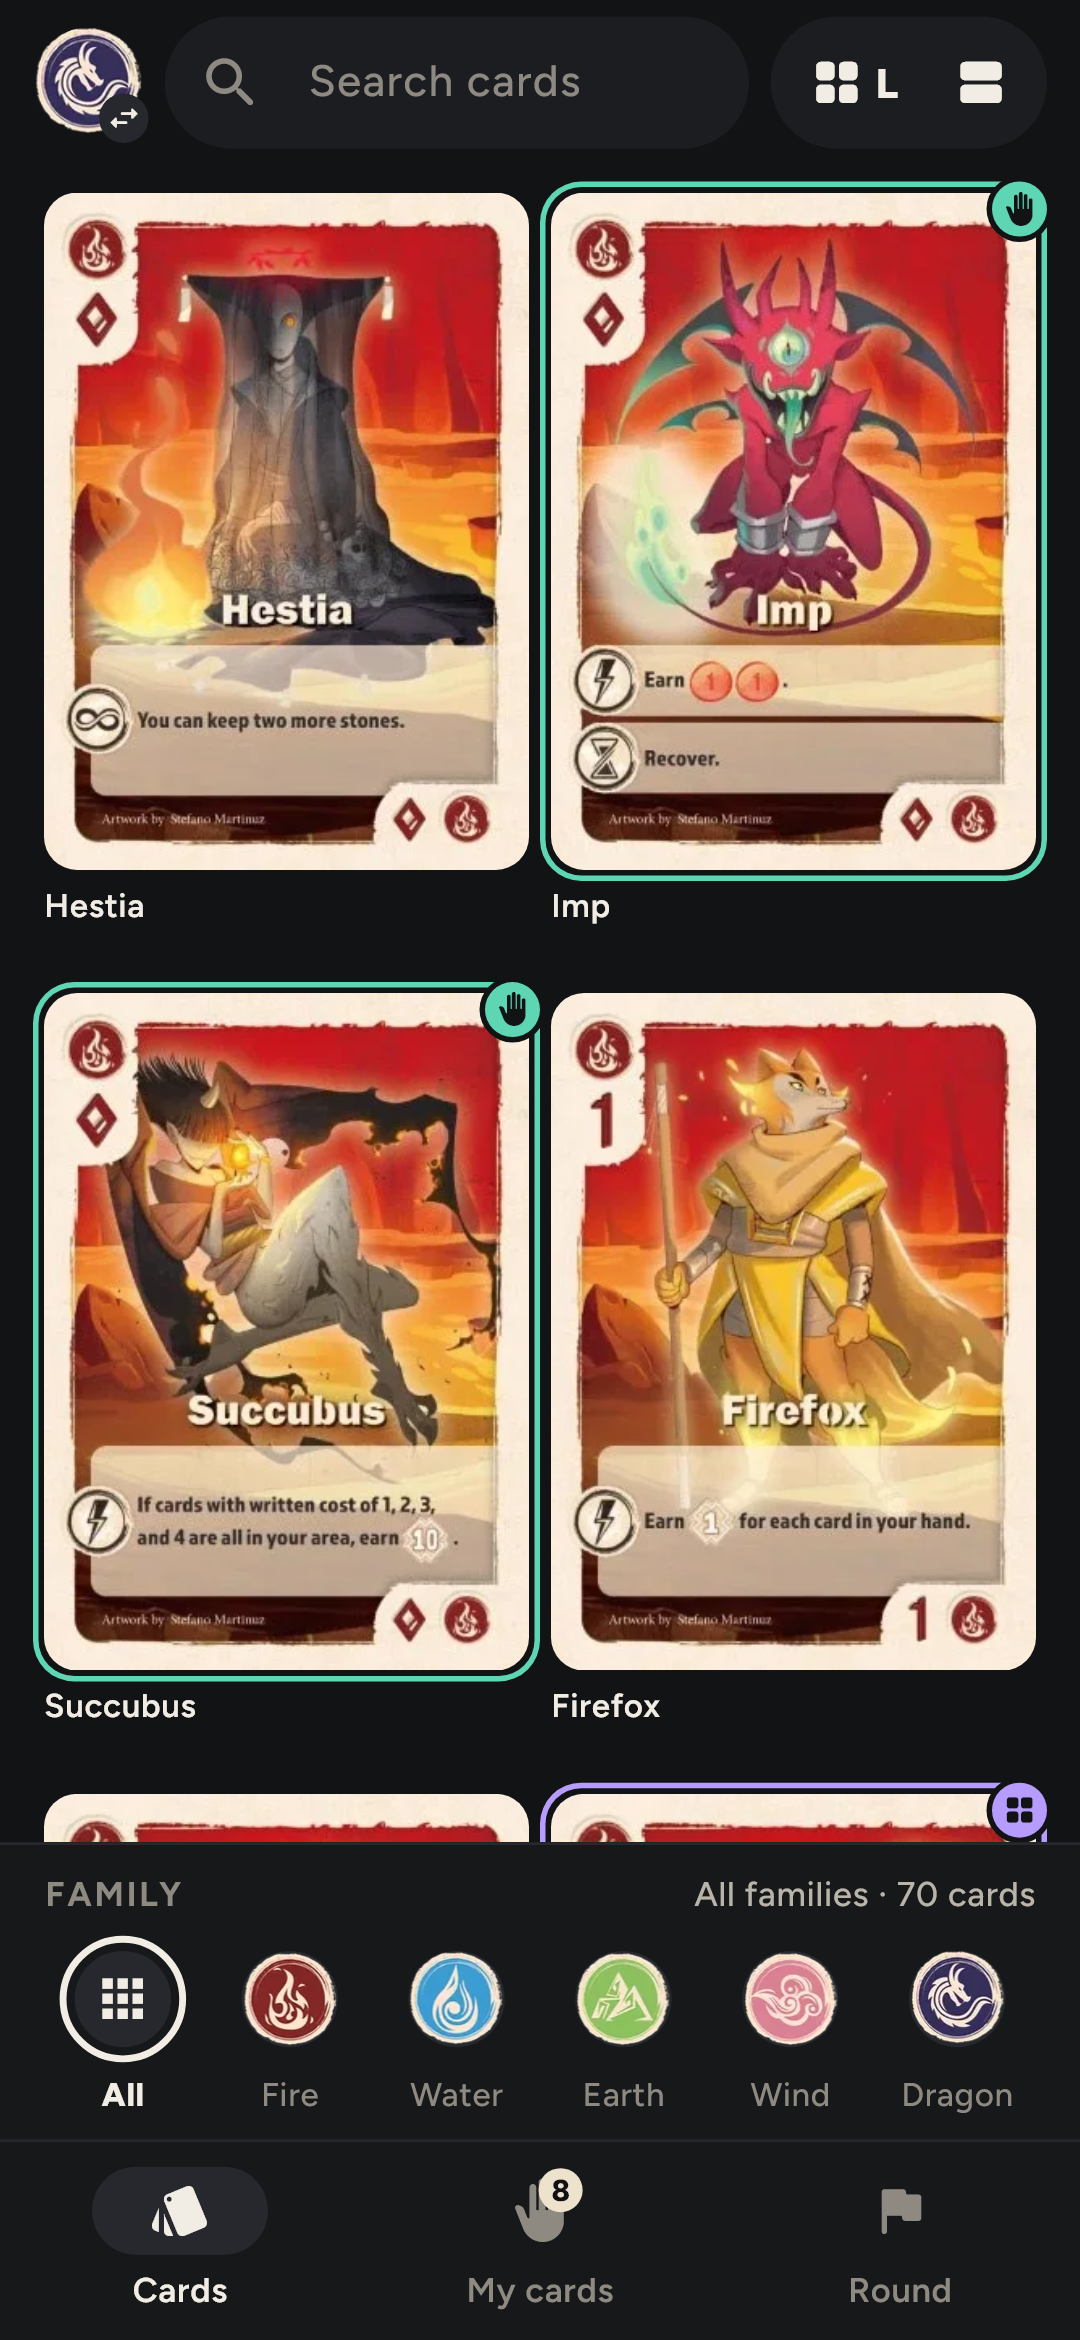
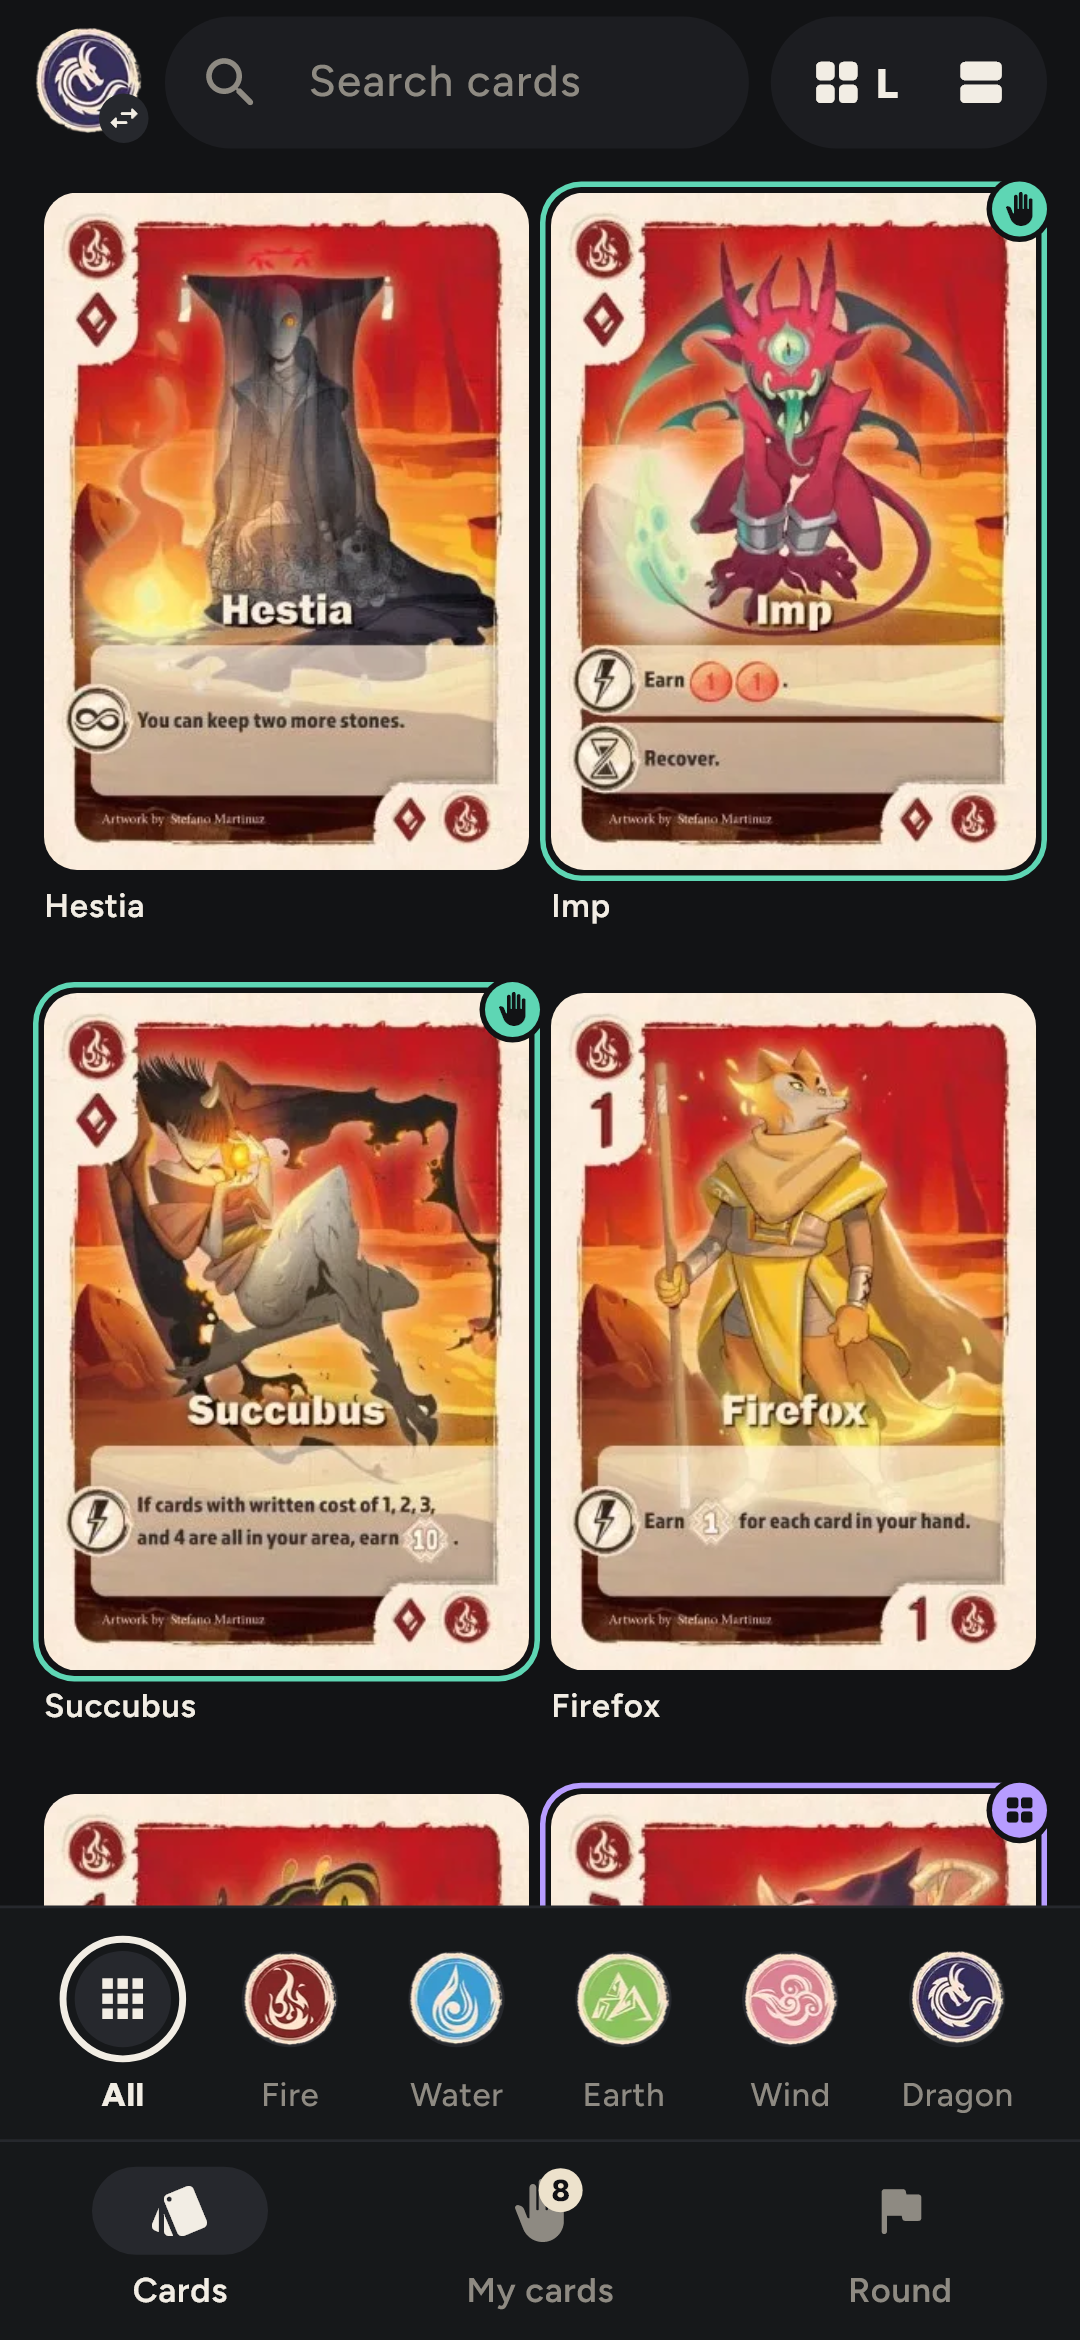
feat: dock is only the family row; group header joins the highlight; "1 card"; no scrollbar
The family dock drops its "FAMILY · Fire · 15 cards" line: just the option buttons with
10 / 8 dp padding, as in the mock. Grouped layout: the sticky header is the top of the
group container (6 dp inset, top-rounded, bordered on three sides) and the cards panel
the bottom, so the label shares the first card's left edge and the picked highlight wraps
both; the border is counted in the inner width. Counts read "1 card" / "3 cards". The
platform scrollbar is hidden in the gallery: the rail is the scrollbar there.

Changed region(s): [[0.0306, 0.7799, 0.9778, 0.8423]]

diff --git a/lib/blocks/gallery/filter_dock.dart b/lib/blocks/gallery/filter_dock.dart
@@ -4,18 +4,17 @@ import '../../core/theme.dart';
 import '../../module_format/block_specs.dart';
 import '../item_picture.dart';
 
-/// Single-select option dock at the bottom, in thumb reach.
+/// Single-select option dock at the bottom, in thumb reach: just the option buttons with
+/// their labels (the picked one is ringed), nothing else.
 class FilterDock extends StatelessWidget {
   const FilterDock({
     super.key,
     required this.filter,
     required this.selected,
-    required this.summary,
     required this.onPick,
   });
   final FilterSpec filter;
   final Object? selected;
-  final String summary;
   final void Function(Object?) onPick;
 
   @override
@@ -27,53 +26,28 @@ class FilterDock extends StatelessWidget {
         border: Border(top: BorderSide(color: p.surface2)),
       ),
       padding: const EdgeInsets.fromLTRB(12, 10, 12, 8),
-      child: Column(
+      child: _OptionRow(
         children: [
-          Padding(
-            padding: const EdgeInsets.symmetric(horizontal: 4),
-            child: Row(
-              children: [
-                Text(
-                  filter.label.toUpperCase(),
-                  style: T.caption.copyWith(letterSpacing: 1, fontWeight: FontWeight.w700, color: p.muted),
-                ),
-                const SizedBox(width: 8),
-                Expanded(
-                  child: Text(
-                    summary,
-                    textAlign: TextAlign.right,
-                    overflow: TextOverflow.ellipsis,
-                    style: T.caption.copyWith(color: p.text2, fontWeight: FontWeight.w500),
-                  ),
-                ),
-              ],
+          _OptionButton(
+            label: 'All',
+            semantics: '${filter.label} All',
+            selected: selected == null,
+            onTap: () => onPick(null),
+            child: Icon(Icons.apps_rounded, color: p.text, size: 22),
+          ),
+          for (final o in filter.options)
+            _OptionButton(
+              label: o.label,
+              semantics: '${filter.label} ${o.label}',
+              selected: selected == o.value,
+              onTap: () => onPick(o.value),
+              child: o.symbol == null
+                  ? Text(
+                      o.label.isEmpty ? '?' : o.label[0],
+                      style: TextStyle(fontSize: 18, fontWeight: FontWeight.w800, color: p.text),
+                    )
+                  : SymbolImage(o.symbol!, size: 40),
             ),
-          ),
-          const SizedBox(height: 8),
-          _OptionRow(
-            children: [
-              _OptionButton(
-                label: 'All',
-                semantics: '${filter.label} All',
-                selected: selected == null,
-                onTap: () => onPick(null),
-                child: Icon(Icons.apps_rounded, color: p.text, size: 22),
-              ),
-              for (final o in filter.options)
-                _OptionButton(
-                  label: o.label,
-                  semantics: '${filter.label} ${o.label}',
-                  selected: selected == o.value,
-                  onTap: () => onPick(o.value),
-                  child: o.symbol == null
-                      ? Text(
-                          o.label.isEmpty ? '?' : o.label[0],
-                          style: TextStyle(fontSize: 18, fontWeight: FontWeight.w800, color: p.text),
-                        )
-                      : SymbolImage(o.symbol!, size: 40),
-                ),
-            ],
-          ),
         ],
       ),
     );

diff --git a/lib/blocks/gallery/gallery_block.dart b/lib/blocks/gallery/gallery_block.dart
@@ -204,16 +204,16 @@ class _GalleryBlockState extends State<GalleryBlock> {
           ),
         ),
         for (var i = 0; i < _g.filters.length; i++)
-          FilterDock(
-            filter: _g.filters[i],
-            selected: _selected[i],
-            summary:
-                '${_g.filters[i].options.where((o) => o.value == _selected[i]).firstOrNull?.label ?? _g.filters[i].allLabel}'
-                ' · ${shown.length} ${_g.noun}',
-            onPick: (v) => _pick(i, v),
-          ),
+          FilterDock(filter: _g.filters[i], selected: _selected[i], onPick: (v) => _pick(i, v)),
       ],
     );
+  }
+
+  /// "1 card", "3 cards": the module's noun, singular for one (plain English plurals only).
+  String _countOf(int n) {
+    final noun = _g.noun;
+    final one = noun.endsWith('s') && noun.length > 1 ? noun.substring(0, noun.length - 1) : noun;
+    return '$n ${n == 1 ? one : noun}';
   }
 
   /// The scrub bubble's text: the section label in sentence case ("COST 3" → "Cost 3").
@@ -396,18 +396,21 @@ class _GalleryBlockState extends State<GalleryBlock> {
     }
     // Grouped: a sticky header per section, then its cards in a container whose padding
     // never changes, so the pick only recolors it. Offsets let the rail jump.
-    final groupW = gridW + kGroupPad.left; // the container reaches 6 dp left of the grid, to the sliver edge
-    final innerW = groupW - kGroupPad.horizontal;
+    // The container reaches 6 dp left of the grid, to the sliver edge; its border and
+    // padding sit inside that width.
+    final groupW = gridW + kGroupPad.left;
+    final innerW = groupW - kGroupPad.horizontal - 2 * kGroupBorder;
     var y = 0.0;
     final slivers = <Widget>[];
     for (final k in keys) {
       final items = shown.where((it) => resolvePath(it.data, sections.path).firstOrNull == k).toList();
       _sectionOffsets[k] = y;
+      // Header (with the top border) + body (cards, bottom padding, bottom border) + gap.
       final h =
           _headerH +
-          kGroupPad.vertical +
-          2 * kGroupBorder +
           ReflowGrid.heightFor(items.length, innerW, columns, aspect: spec.cardAspect, extra: extra) +
+          kGroupPad.bottom +
+          kGroupBorder +
           _sectionGap;
       _sectionSpans[k] = [(y, y + h)];
       y += h;
@@ -418,7 +421,7 @@ class _GalleryBlockState extends State<GalleryBlock> {
               pinned: true,
               delegate: SectionHeader(
                 fillTemplate(sections.label, {'value': k}),
-                '${items.length} ${_g.noun}',
+                _countOf(items.length),
                 p,
                 active: k == activeKey,
               ),
@@ -451,7 +454,11 @@ class _GalleryBlockState extends State<GalleryBlock> {
   }
 
 
-  Widget _scrollWatch(Widget child) =>
-      NotificationListener<UserScrollNotification>(onNotification: _onUserScroll, child: child);
+  /// Watches for real user scrolls, and hides the platform scrollbar: the rail is the
+  /// scrollbar here.
+  Widget _scrollWatch(Widget child) => ScrollConfiguration(
+    behavior: ScrollConfiguration.of(context).copyWith(scrollbars: false),
+    child: NotificationListener<UserScrollNotification>(onNotification: _onUserScroll, child: child),
+  );
 }
 

diff --git a/lib/blocks/gallery/layouts.dart b/lib/blocks/gallery/layouts.dart
@@ -110,8 +110,9 @@ class FlowCell extends StatelessWidget {
   }
 }
 
-/// A section's cards in the grouped layout: the same padding whether picked or not; picked
-/// gets a soft highlight fill and an inset outline.
+/// A section's cards in the grouped layout: the lower part of the group container (the
+/// sticky [SectionHeader] is the upper part). The same padding whether picked or not;
+/// picked gets a soft highlight fill and an outline that continues from the header.
 class SectionPanel extends StatelessWidget {
   const SectionPanel({super.key, required this.active, required this.child});
   final bool active;
@@ -120,23 +121,22 @@ class SectionPanel extends StatelessWidget {
   @override
   Widget build(BuildContext context) {
     final p = context.pal;
+    final line = BorderSide(color: active ? p.highlight.withValues(alpha: 0.7) : Colors.transparent, width: kGroupBorder);
     return AnimatedContainer(
       duration: context.read<Settings>().anim(const Duration(milliseconds: 200)),
-      padding: kGroupPad,
+      padding: EdgeInsets.fromLTRB(kGroupPad.left, 0, kGroupPad.right, kGroupPad.bottom),
       decoration: BoxDecoration(
         color: active ? p.highlight.withValues(alpha: 0.14) : null,
-        borderRadius: BorderRadius.circular(14),
-        border: Border.all(
-          color: active ? p.highlight.withValues(alpha: 0.7) : Colors.transparent,
-          width: kGroupBorder,
-        ),
+        borderRadius: const BorderRadius.vertical(bottom: Radius.circular(14)),
+        border: Border(left: line, right: line, bottom: line),
       ),
       child: child,
     );
   }
 }
 
-/// Sticky separator above a section: label pill, a rule, and the count.
+/// Sticky top of a section's container: label pill, a rule, and the count, inset by the
+/// group padding so the label lines up with the first card. Opaque, so cards scroll under it.
 class SectionHeader extends SliverPersistentHeaderDelegate {
   SectionHeader(this.label, this.count, this.p, {this.active = false});
   final String label;
@@ -151,8 +151,14 @@ class SectionHeader extends SliverPersistentHeaderDelegate {
 
   @override
   Widget build(BuildContext context, double shrinkOffset, bool overlapsContent) {
+    final line = BorderSide(color: active ? p.highlight.withValues(alpha: 0.7) : Colors.transparent, width: kGroupBorder);
     return Container(
-      color: p.bg,
+      decoration: BoxDecoration(
+        color: active ? Color.alphaBlend(p.highlight.withValues(alpha: 0.14), p.bg) : p.bg,
+        borderRadius: const BorderRadius.vertical(top: Radius.circular(14)),
+        border: Border(top: line, left: line, right: line),
+      ),
+      padding: EdgeInsets.symmetric(horizontal: kGroupPad.left),
       alignment: Alignment.centerLeft,
       child: Row(
         children: [

diff --git a/test/blocks/gallery_block_test.dart b/test/blocks/gallery_block_test.dart
@@ -20,15 +20,15 @@ void main() {
   ) async {
     await pumpModules(tester);
     expect(tiles(), 4);
-    expect(find.text('All families · 4 cards'), findsOneWidget);
+    expect(find.textContaining('4 cards'), findsNothing, reason: 'the dock is only the options');
 
     await tester.tap(find.bySemanticsLabel('Family Fire'));
     await tester.pumpAndSettle();
-    expect(find.text('Fire · 2 cards'), findsOneWidget);
+    expect(tiles(), 2);
 
     await tester.tap(find.bySemanticsLabel('Family Water'));
     await tester.pumpAndSettle();
-    expect(find.text('Water · 2 cards'), findsOneWidget);
+    expect(tiles(), 2);
 
     // Tapping the selected option again goes back to all.
     await tester.tap(find.bySemanticsLabel('Family Water'));
@@ -308,7 +308,7 @@ void main() {
     await tester.pumpAndSettle();
     await tester.tap(last);
     await tester.pumpAndSettle();
-    expect(find.text('Opt8 · 0 cards'), findsOneWidget);
+    expect(tiles(), 0);
   });
 
   testWidgets('the selected cost section is highlighted', (tester) async {
@@ -422,6 +422,7 @@ void main() {
     expect(find.text('COST 2'), findsOneWidget);
     expect(find.text('COST 4'), findsOneWidget);
     expect(find.byKey(const Key('sectionRail')), findsOneWidget);
+    expect(find.text('1 card'), findsNWidgets(2), reason: 'singular count in the group headers');
 
     Finder rail(String n) => find.descendant(of: find.byKey(const Key('sectionRail')), matching: find.text(n));
     Color railColor(String n) {

diff --git a/test/games/vale_module_test.dart b/test/games/vale_module_test.dart
@@ -105,11 +105,11 @@ void main() {
 
     await tester.tap(find.bySemanticsLabel('Family Dragon'));
     await tester.pumpAndSettle();
-    expect(find.text('Dragon · 10 cards'), findsOneWidget);
+    expect(tiles(), inInclusiveRange(1, 10), reason: 'only the dragons; offscreen groups are not built');
 
     await tester.tap(find.bySemanticsLabel('Family Water'));
     await tester.pumpAndSettle();
-    expect(find.text('Water · 15 cards'), findsOneWidget);
+    expect(tiles(), inInclusiveRange(1, 15));
 
     await tester.tap(find.bySemanticsLabel('Family Water'));
     await tester.pumpAndSettle();
